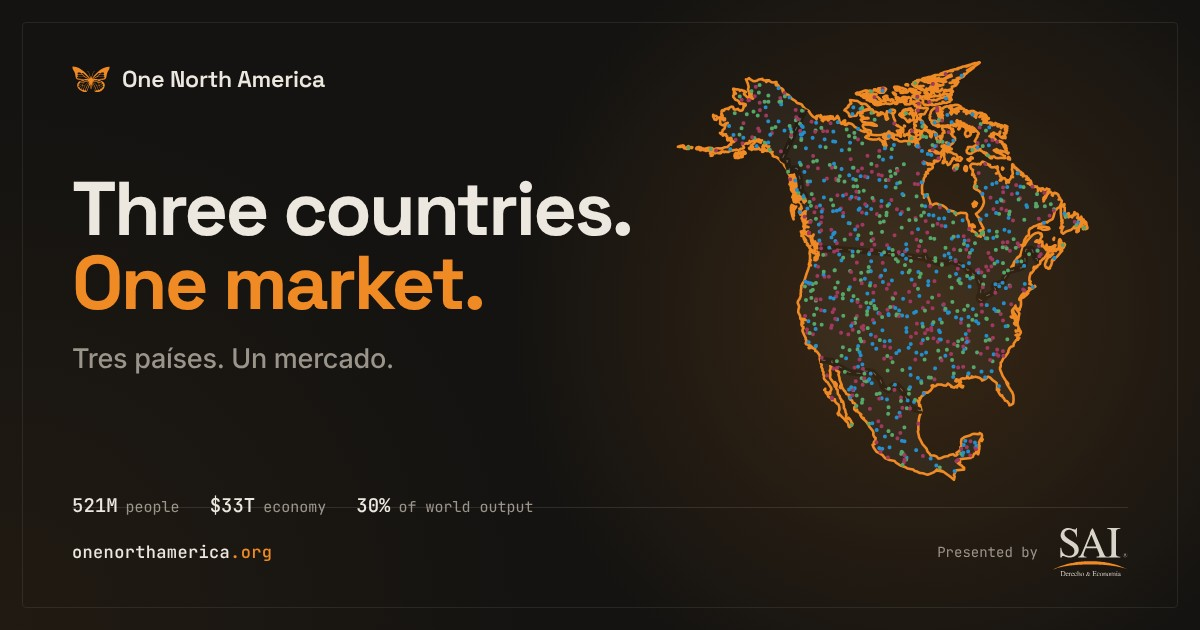
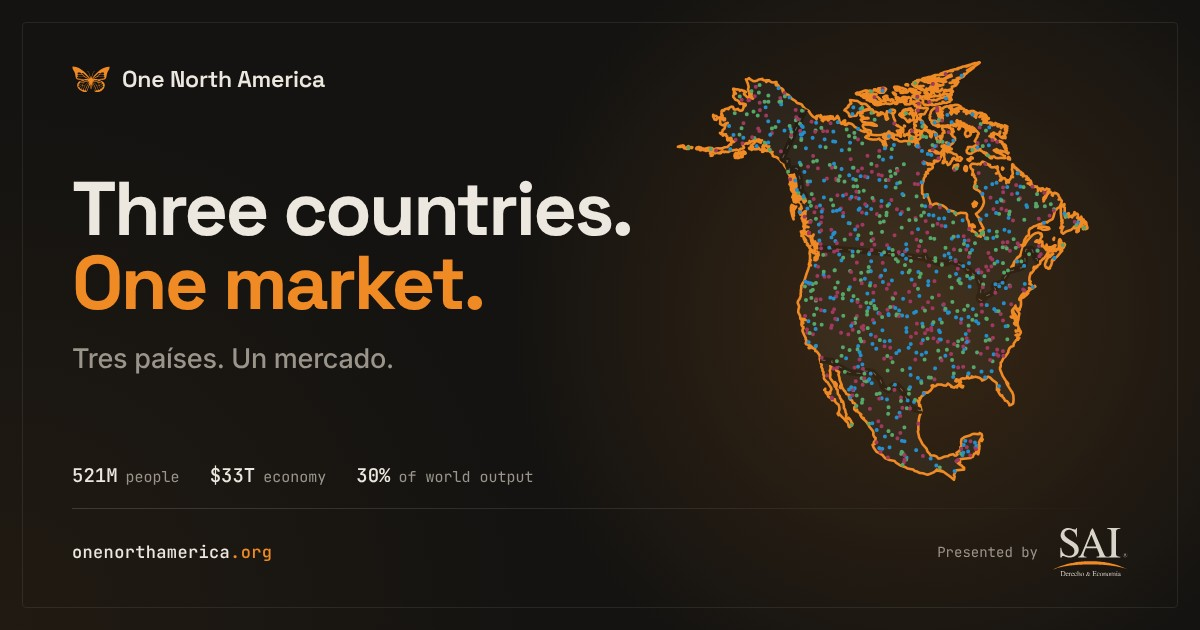
Link previews: give the figures room above the rule
The figures sat on the footer rule; they now have a clear gap, and the
rule fades out toward the map instead of running under it.

Claude-Session: https://claude.ai/code/session_01TnvNUPXeEEEp5AcbnrwgE4

Changed region(s): [[0.0617, 0.7238, 0.4625, 0.8143]]

diff --git a/tools/og.html b/tools/og.html
@@ -27,9 +27,11 @@
   h1 .hl { color: #f08a24; display: block; }
   .es { margin-top: 22px; font: 500 27px/1.2 Inter; color: #9a948a; letter-spacing: -0.01em; }
   .foundations h1 { font-size: 54px; line-height: 1.02; letter-spacing: -0.03em; }
-  .stats { position: absolute; left: 72px; bottom: 112px; display: flex; gap: 30px; font: 400 15px "JetBrains Mono"; color: #9a948a; }
+  .stats { position: absolute; left: 72px; bottom: 142px; display: flex; gap: 30px; font: 400 15px "JetBrains Mono"; color: #9a948a; }
   .stats b { font-weight: 500; font-size: 19px; color: #ece8df; margin-right: 8px; }
-  .foot { position: absolute; left: 72px; right: 72px; bottom: 54px; display: flex; align-items: center; justify-content: space-between; padding-top: 20px; border-top: 1px solid rgba(236, 232, 223, 0.12); }
+  .foot { position: absolute; left: 72px; right: 72px; bottom: 54px; display: flex; align-items: center; justify-content: space-between; padding-top: 20px; }
+  /* The rule fades out toward the map instead of running under it. */
+  .foot::before { content: ""; position: absolute; top: 0; left: 0; right: 0; height: 1px; background: linear-gradient(90deg, rgba(236, 232, 223, 0.16), rgba(236, 232, 223, 0.1) 55%, rgba(236, 232, 223, 0)); }
   .url { font: 500 17px "JetBrains Mono"; letter-spacing: 0.02em; color: #ece8df; }
   .url span { color: #f08a24; }
   .by { display: flex; align-items: center; gap: 14px; font: 400 14px "JetBrains Mono"; color: #9a948a; }
